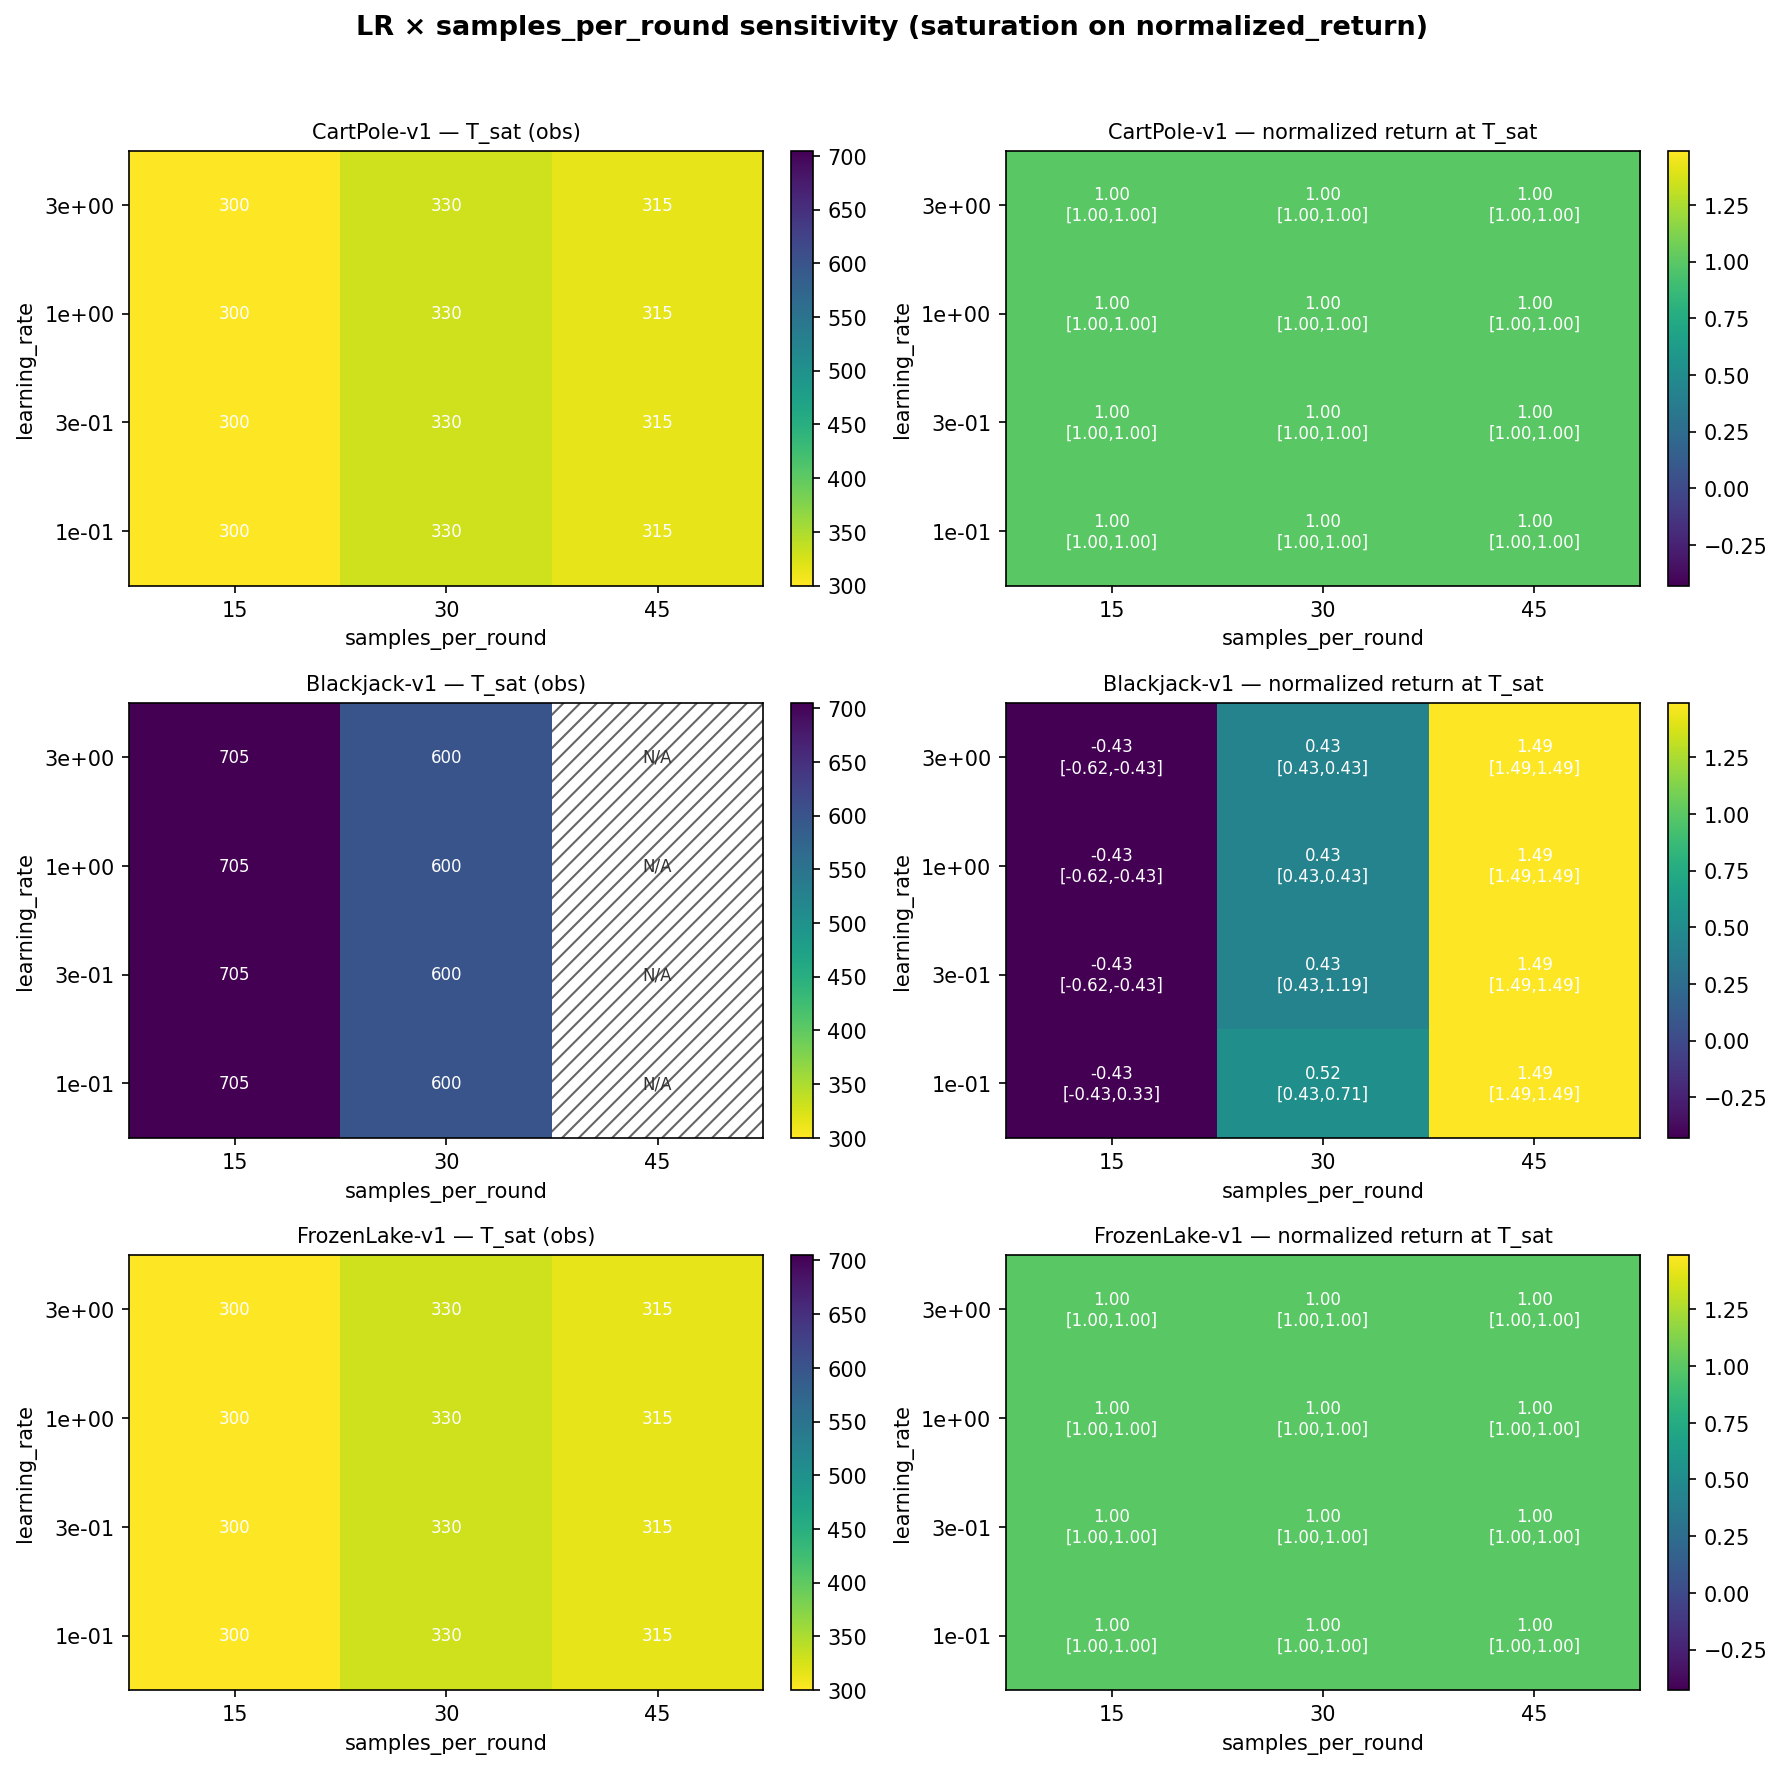
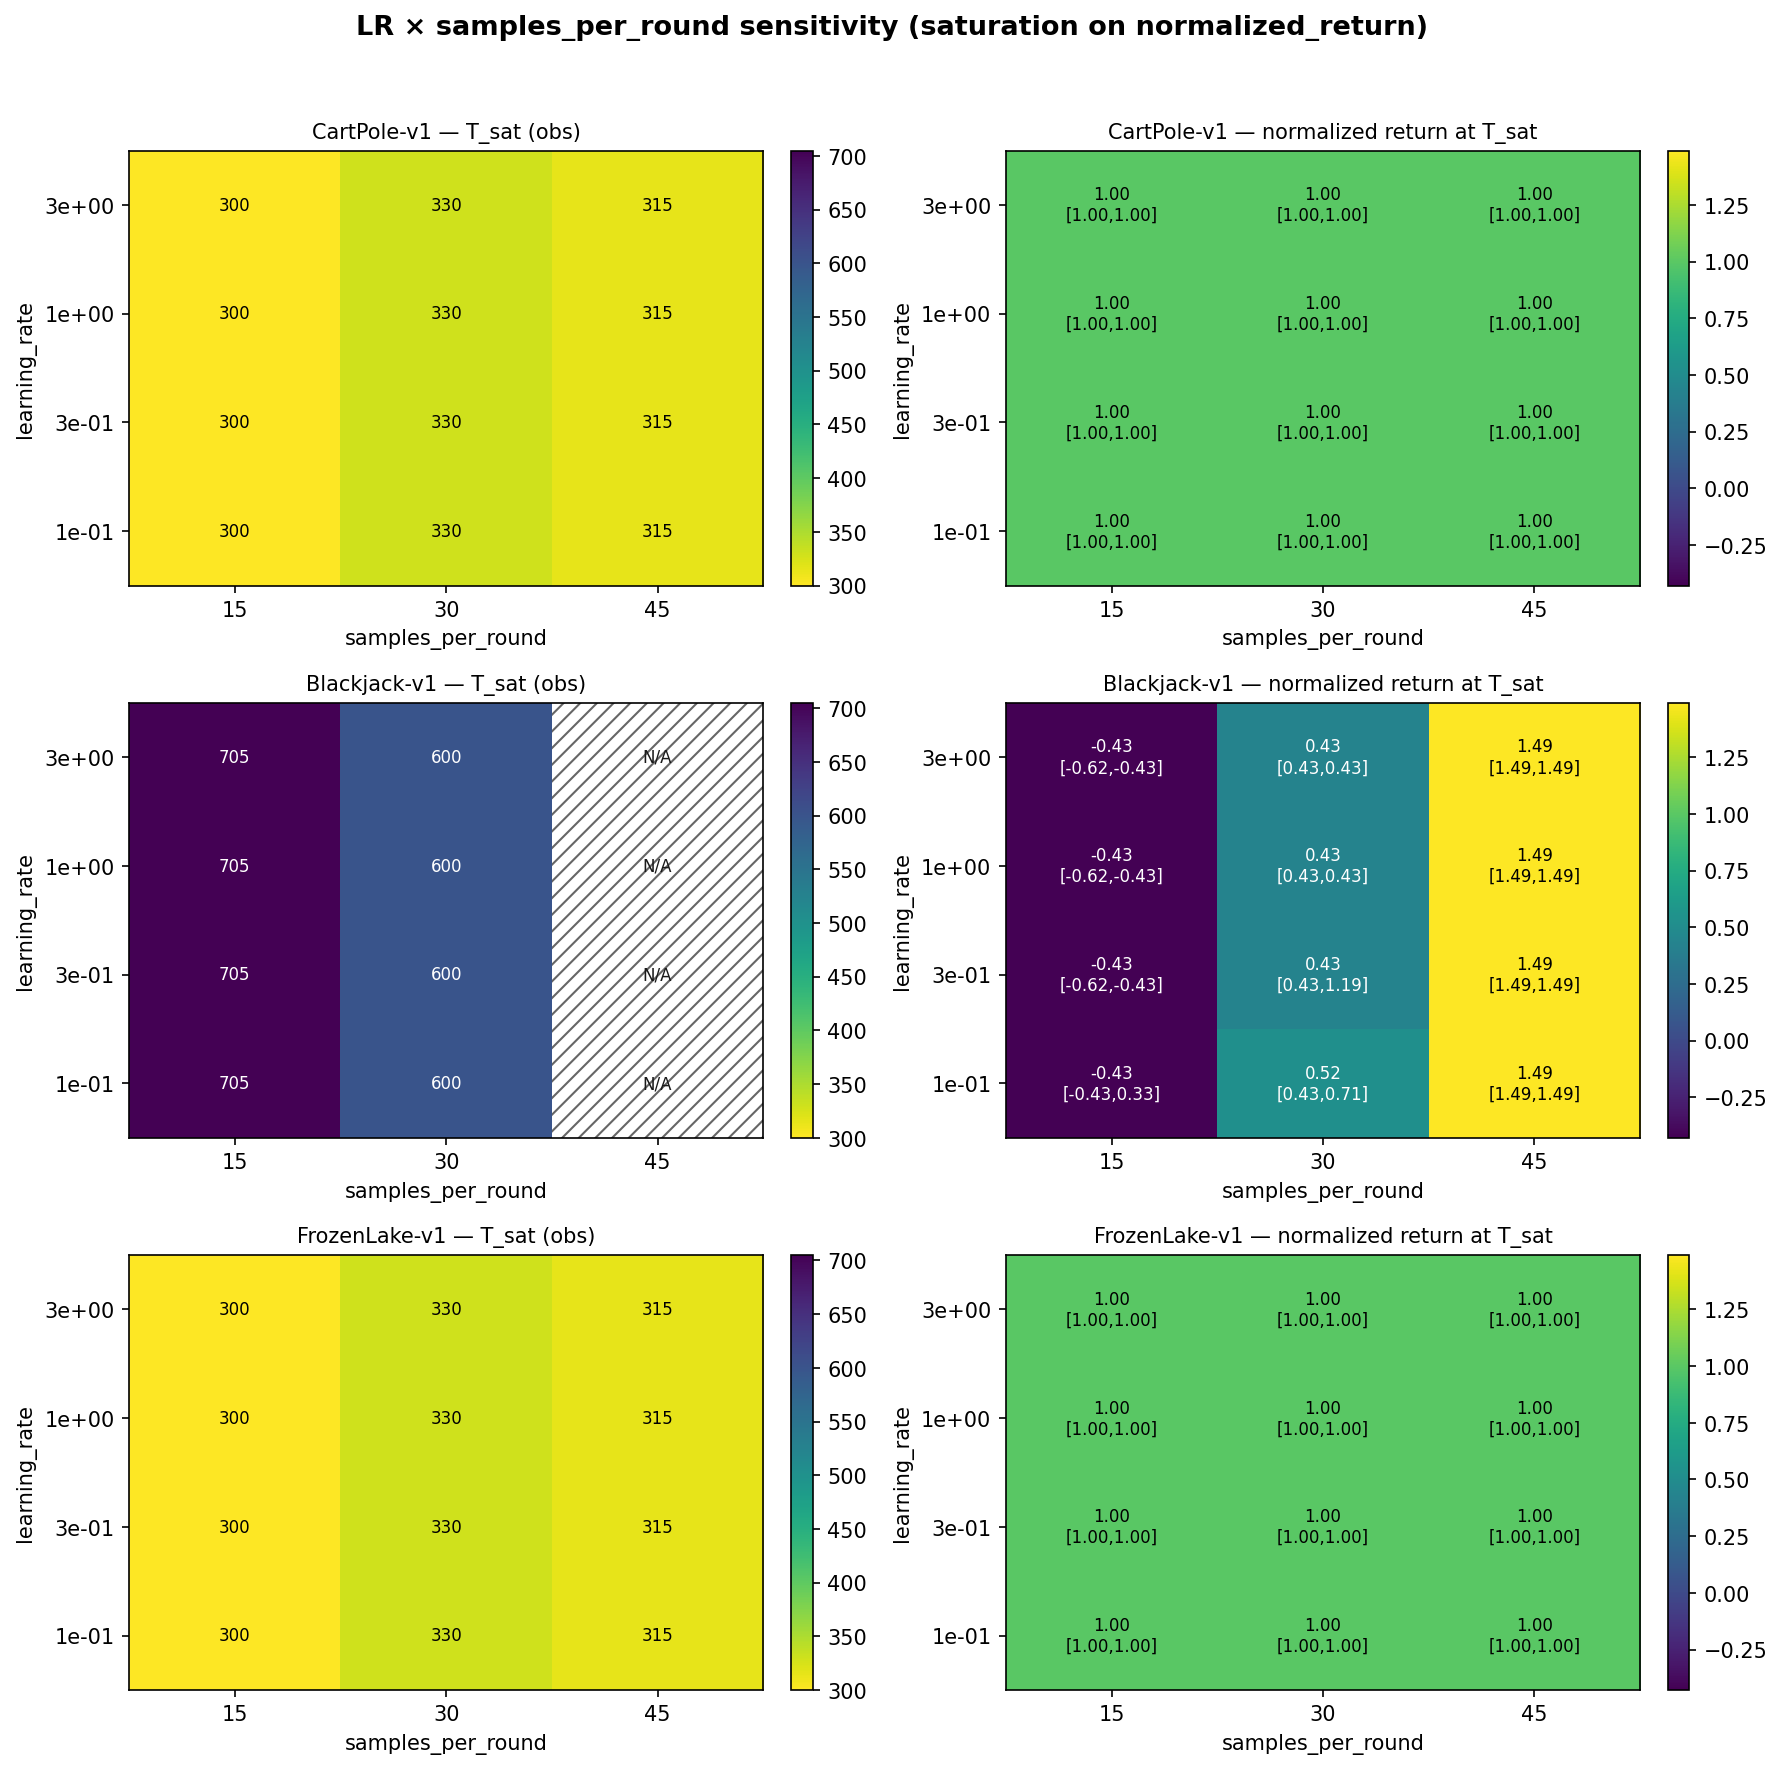
ftrl(plots): luminance-aware annotation color for heatmap cells

diff --git a/src/imitation/experiments/ftrl/plot_lr_obs_heatmap.py b/src/imitation/experiments/ftrl/plot_lr_obs_heatmap.py
@@ -140,7 +140,11 @@ def _draw_heatmap(
     vmin: Optional[float] = None,
     vmax: Optional[float] = None,
 ):
-    """Draw a single heatmap with annotations and hatched N/A cells."""
+    """Draw a single heatmap with annotations and hatched N/A cells.
+
+    Annotation color is chosen per-cell from the cell's background luminance
+    (via the colormap output) so light text never lands on light cells.
+    """
     display = np.where(na_mask, np.nan, matrix)
     im = ax.imshow(
         display, aspect="auto", origin="lower", cmap=cmap, vmin=vmin, vmax=vmax,
@@ -153,6 +157,11 @@ def _draw_heatmap(
     ax.set_ylabel("learning_rate")
     ax.set_title(title, fontsize=10)
 
+    cmap_obj = plt.get_cmap(cmap)
+    lo = vmin if vmin is not None else float(np.nanmin(display))
+    hi = vmax if vmax is not None else float(np.nanmax(display))
+    span = hi - lo if hi > lo else 1.0
+
     for i in range(len(lr_values)):
         for j in range(len(sp_values)):
             if na_mask[i, j]:
@@ -160,11 +169,18 @@ def _draw_heatmap(
                     (j - 0.5, i - 0.5), 1, 1,
                     fill=False, hatch="///", edgecolor="0.4", linewidth=0,
                 ))
-            txt = annot_values[i][j]
+                color = "0.1"
+            else:
+                # Choose contrasting text color from the cell's RGB luminance.
+                norm = (matrix[i, j] - lo) / span
+                norm = float(np.clip(norm, 0.0, 1.0))
+                r, g, b, _ = cmap_obj(norm)
+                lum = 0.299 * r + 0.587 * g + 0.114 * b
+                color = "black" if lum > 0.55 else "white"
             ax.text(
-                j, i, txt,
+                j, i, annot_values[i][j],
                 ha="center", va="center",
-                fontsize=8, color="white" if not na_mask[i, j] else "0.2",
+                fontsize=8, color=color,
             )
     return im
 
